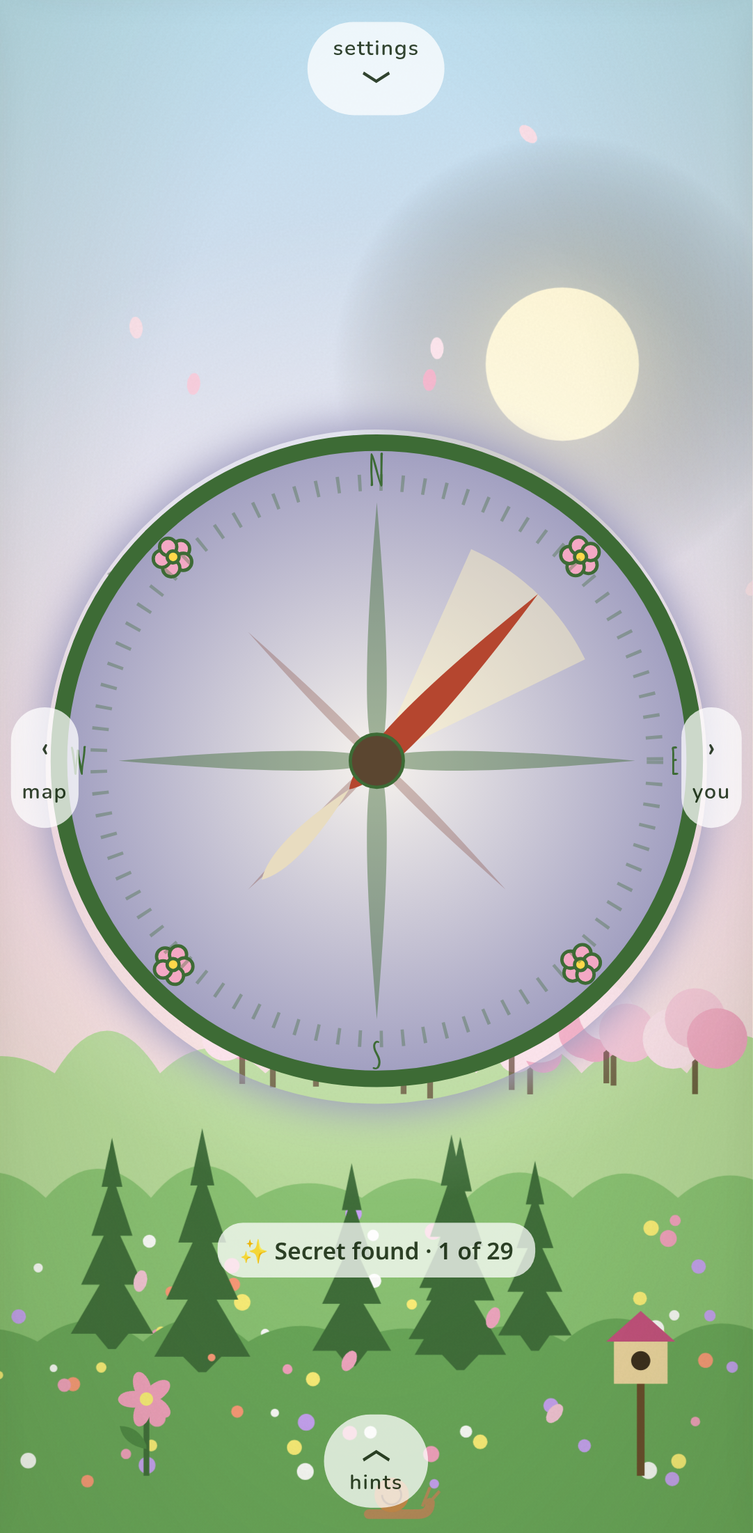
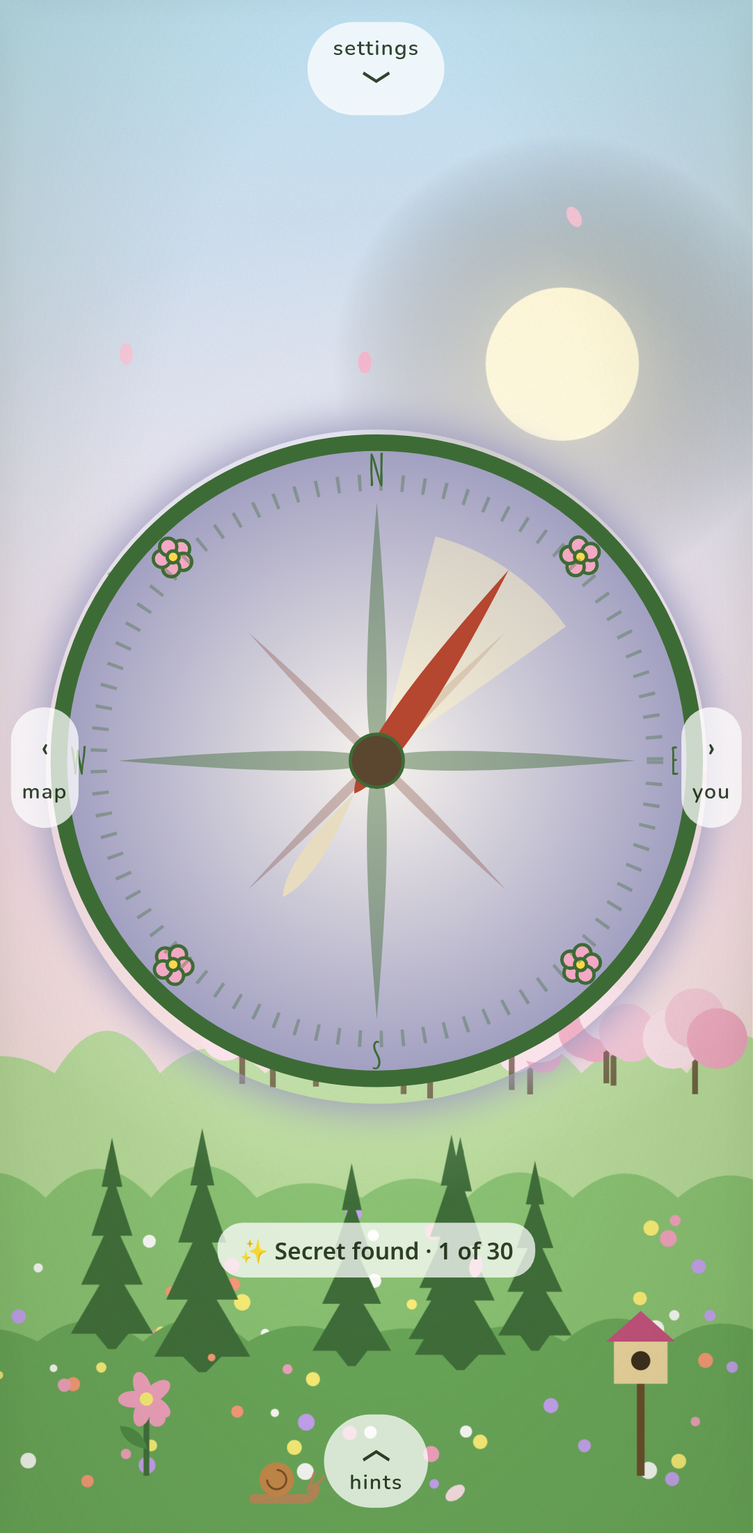
Haunted: eerie gravestone glow + move off hints; tappable trees with creepy eyes; min 52px hit targets; faded controls ignore taps; relocate snail/pine off handles

diff --git a/index.html b/index.html
@@ -1,5 +1,5 @@
-<!DOCTYPE html><html lang="en"><head><meta charset="utf-8"><meta http-equiv="Cache-Control" content="no-cache, no-store, must-revalidate"><meta http-equiv="Pragma" content="no-cache"><meta http-equiv="Expires" content="0"><meta name="ttu-build" content="202610231902"><meta name="viewport" content="width=device-width,initial-scale=1,viewport-fit=cover">
-<title>Trail Trade-Up · Solo Hunt</title><meta name="theme-color" content="#1f4d3a"><link rel="manifest" href="manifest.json?v=202610231902"><link rel="icon" href="icon-192.png?v=202610231902"><link rel="apple-touch-icon" href="icon-192.png?v=202610231902"><meta name="mobile-web-app-capable" content="yes"><meta name="apple-mobile-web-app-capable" content="yes"><meta name="apple-mobile-web-app-status-bar-style" content="black-translucent"><meta name="apple-mobile-web-app-title" content="Trail Hunt">
+<!DOCTYPE html><html lang="en"><head><meta charset="utf-8"><meta http-equiv="Cache-Control" content="no-cache, no-store, must-revalidate"><meta http-equiv="Pragma" content="no-cache"><meta http-equiv="Expires" content="0"><meta name="ttu-build" content="202610231919"><meta name="viewport" content="width=device-width,initial-scale=1,viewport-fit=cover">
+<title>Trail Trade-Up · Solo Hunt</title><meta name="theme-color" content="#1f4d3a"><link rel="manifest" href="manifest.json?v=202610231919"><link rel="icon" href="icon-192.png?v=202610231919"><link rel="apple-touch-icon" href="icon-192.png?v=202610231919"><meta name="mobile-web-app-capable" content="yes"><meta name="apple-mobile-web-app-capable" content="yes"><meta name="apple-mobile-web-app-status-bar-style" content="black-translucent"><meta name="apple-mobile-web-app-title" content="Trail Hunt">
 <link rel="stylesheet" href="https://unpkg.com/leaflet@1.9.4/dist/leaflet.css"><script src="https://unpkg.com/leaflet@1.9.4/dist/leaflet.js"></script>
 <link rel="preconnect" href="https://fonts.googleapis.com"><link rel="preconnect" href="https://fonts.gstatic.com" crossorigin><link rel="stylesheet" href="https://fonts.googleapis.com/css2?family=Amatic+SC:wght@700&family=Cormorant+Garamond:ital,wght@0,500;0,600;1,500&family=Creepster&family=Fraunces:ital,opsz,wght@0,9..144,400;0,9..144,600;1,9..144,400&family=IM+Fell+English:ital@0;1&family=IM+Fell+English+SC&family=Nunito:wght@400;600;700&family=Pacifico&family=Spectral:ital,wght@0,400;0,600;1,400&display=swap">
 <style>
@@ -1113,7 +1113,7 @@ window.TTU_FS={enter,exit,can,standalone};
 
 <style>
 .uiF{transition:opacity .4s ease}
-body.uiHide .uiF{opacity:0!important}
+body.uiHide .uiF{opacity:0!important;pointer-events:none}.tglow{opacity:.1;animation:tgb 6s ease-in-out infinite}body[data-tod=night] .tglow,body[data-tod=dusk] .tglow{animation-name:tgbN}@keyframes tgb{0%,100%{opacity:.06}50%{opacity:.16}}@keyframes tgbN{0%,100%{opacity:.3}50%{opacity:.65}}.twisp{opacity:0;animation:twp 9s ease-in-out infinite}@keyframes twp{0%,55%{opacity:0;transform:translate(0,0)}65%{opacity:.7}80%{opacity:.35;transform:translate(10px,-14px)}90%,100%{opacity:0;transform:translate(16px,-22px)}}
 body.uiHide #sxGo{opacity:.82;transition:opacity .4s ease}
 @media (prefers-reduced-motion:reduce){.uiF,body.uiHide #sxGo{transition:none}}
 </style>
@@ -1235,7 +1235,7 @@ window.TTU_CRIT={play,list:Object.keys(C)};
 const NS='http://www.w3.org/2000/svg',RM=matchMedia('(prefers-reduced-motion: reduce)'),b=document.body,KS='ttu_profile_secrets';
 const on=()=>{try{return localStorage.getItem('ttu_profile_crit')!=='off'}catch(e){return true}};
 const tod=()=>b.dataset.tod||'day',wx=()=>b.dataset.wx||'clear',night=()=>/night|dusk/.test(tod());
-let root,svg,props,fxg,cur='',cool={};
+let root,svg,props,fxg,cur='',cool={},tapP=null;
 function mk(){const land=document.querySelector('#tScene svg.land');if(!land)return false;if(!props){props=document.createElementNS(NS,'g');props.setAttribute('class','pr');fxg=document.createElementNS(NS,'g');fxg.setAttribute('class','fx')}
  if(props.parentNode!==land){land.appendChild(props);land.appendChild(fxg)}svg=land;return true}
 function add(h,par){const g=document.createElementNS(NS,'g');g.innerHTML=h;(par||fxg).appendChild(g);return g}
@@ -1244,10 +1244,10 @@ const done=(a,g)=>a.finished.then(()=>g.remove()).catch(()=>g.remove());
 const rare=()=>Math.random()<.15;
 // ---- static props per theme (new little scenery bits) ----
 const PROP={
-winter:'<g id="p_snowman" transform="translate(52 716)"><ellipse cy="52" rx="24" ry="4" fill="#7896bd" opacity=".45"/><circle cy="34" r="19" fill="#dfe8f4"/><path d="M-12 20 A19 19 0 0 0 -6 52 A20 20 0 0 1 -12 20Z" fill="#b9cbe6" opacity=".8"/><circle cy="5" r="13" fill="#e6edf7"/><path d="M-9 -4 A13 13 0 0 0 -6 16 A14 14 0 0 1 -9 -4Z" fill="#b9cbe6" opacity=".8"/><circle cx="-4" cy="2" r="1.4" fill="#1c2433"/><circle cx="4" cy="2" r="1.4" fill="#1c2433"/><path d="M0 6 l8 2 l-8 1Z" fill="#d9822b"/><path d="M-11 15 h22" stroke="#8a3a3a" stroke-width="3.5"/><g id="p_hat"><rect x="-10" y="-10" width="20" height="3.5" fill="#1c2433"/><rect x="-6" y="-23" width="12" height="14" fill="#1c2433"/></g></g><g id="p_pine" transform="translate(376 760)"><path d="M0 -70 L22 -30 L10 -30 L28 0 L-28 0 L-10 -30 L-22 -30Z" fill="#1c3352"/><path id="p_pcap" d="M0 -70 L12 -48 L0 -52 L-12 -48Z M-20 -31 L20 -31 L14 -26 L-14 -26Z" fill="#f4f8ff"/><rect x="-3" y="0" width="6" height="10" fill="#3a2a22"/></g>',
-haunted:'<g id="p_tomb" transform="translate(182 744)"><ellipse cy="24" rx="20" ry="3.5" fill="#07030e" opacity=".55"/><g transform="rotate(-7)"><path d="M-11 24 V-4 A11 11 0 0 1 11 -4 V24Z" fill="#140a22"/><path d="M3 -14.5 A11 11 0 0 1 11 -4 V10" stroke="#6a4a8a" stroke-width="1.2" fill="none" opacity=".8"/><path d="M0 -6 V8 M-5 -1 H5" stroke="#24123a" stroke-width="1.6"/></g><path d="M-18 24 l2 -6 l2 6 M14 24 l2 -7 l2 7 M-6 24 l1.5 -4 l1.5 4" stroke="#0c0618" stroke-width="1.4" fill="none"/></g><g id="p_bat" transform="translate(72 600)"><path d="M0 0 v6" stroke="#0c0618"/><ellipse cy="12" rx="4" ry="7" fill="#0b0514"/><circle cx="-1.5" cy="16" r=".9" fill="#ffd34d"/><circle cx="1.5" cy="16" r=".9" fill="#ffd34d"/></g>',
+winter:'<g id="p_snowman" transform="translate(52 716)"><ellipse cy="52" rx="24" ry="4" fill="#7896bd" opacity=".45"/><circle cy="34" r="19" fill="#dfe8f4"/><path d="M-12 20 A19 19 0 0 0 -6 52 A20 20 0 0 1 -12 20Z" fill="#b9cbe6" opacity=".8"/><circle cy="5" r="13" fill="#e6edf7"/><path d="M-9 -4 A13 13 0 0 0 -6 16 A14 14 0 0 1 -9 -4Z" fill="#b9cbe6" opacity=".8"/><circle cx="-4" cy="2" r="1.4" fill="#1c2433"/><circle cx="4" cy="2" r="1.4" fill="#1c2433"/><path d="M0 6 l8 2 l-8 1Z" fill="#d9822b"/><path d="M-11 15 h22" stroke="#8a3a3a" stroke-width="3.5"/><g id="p_hat"><rect x="-10" y="-10" width="20" height="3.5" fill="#1c2433"/><rect x="-6" y="-23" width="12" height="14" fill="#1c2433"/></g></g><g id="p_pine" transform="translate(352 760)"><path d="M0 -70 L22 -30 L10 -30 L28 0 L-28 0 L-10 -30 L-22 -30Z" fill="#1c3352"/><path id="p_pcap" d="M0 -70 L12 -48 L0 -52 L-12 -48Z M-20 -31 L20 -31 L14 -26 L-14 -26Z" fill="#f4f8ff"/><rect x="-3" y="0" width="6" height="10" fill="#3a2a22"/></g>',
+haunted:'<g id="p_tomb" transform="translate(150 724)"><defs><radialGradient id="tgG"><stop offset="0" stop-color="#9dffd0" stop-opacity=".9"/><stop offset=".5" stop-color="#5fe0c0" stop-opacity=".35"/><stop offset="1" stop-color="#3ac0b0" stop-opacity="0"/></radialGradient></defs><ellipse class="tglow" cy="20" rx="26" ry="9" fill="url(#tgG)"/><circle class="twisp" cx="-6" cy="12" r="1.6" fill="#c8ffe8"/><ellipse cy="24" rx="20" ry="3.5" fill="#07030e" opacity=".55"/><g transform="rotate(-7)"><path d="M-11 24 V-4 A11 11 0 0 1 11 -4 V24Z" fill="#140a22"/><path d="M3 -14.5 A11 11 0 0 1 11 -4 V10" stroke="#6a4a8a" stroke-width="1.2" fill="none" opacity=".8"/><path d="M0 -6 V8 M-5 -1 H5" stroke="#24123a" stroke-width="1.6"/></g><path d="M-18 24 l2 -6 l2 6 M14 24 l2 -7 l2 7 M-6 24 l1.5 -4 l1.5 4" stroke="#0c0618" stroke-width="1.4" fill="none"/></g><g id="p_bat" transform="translate(72 600)"><path d="M0 0 v6" stroke="#0c0618"/><ellipse cy="12" rx="4" ry="7" fill="#0b0514"/><circle cx="-1.5" cy="16" r=".9" fill="#ffd34d"/><circle cx="1.5" cy="16" r=".9" fill="#ffd34d"/></g>',
 golden:'<g id="p_oak" transform="translate(345 770)"><rect x="-5" y="-50" width="10" height="55" fill="#3a180a"/><circle cx="0" cy="-66" r="30" fill="#8a3018"/><circle cx="-18" cy="-52" r="18" fill="#a8461e"/><circle cx="18" cy="-54" r="18" fill="#6a2412"/></g><g id="p_crow" transform="translate(64 728)"><path d="M0 -20 V48" stroke="#5a3418" stroke-width="4"/><path d="M-22 -4 H22" stroke="#5a3418" stroke-width="3"/><path d="M-8 -6 L8 -6 L12 26 L-12 26Z" fill="#5a2612"/><g id="p_arm"><path d="M8 -4 L24 -4 L26 2" stroke="#a8743c" stroke-width="4" fill="none"/></g><circle cy="-16" r="9" fill="#a8743c"/><path d="M-12 -22 L12 -22 L6 -32 L-6 -32Z" fill="#3a180a"/><circle cx="-3" cy="-16" r="1.2" fill="#222"/><circle cx="3" cy="-16" r="1.2" fill="#222"/></g>',
-spring:'<g id="p_bud" transform="translate(80 770)"><path d="M0 0 V-34" stroke="#3f6e3a" stroke-width="3"/><path d="M0 -14 q-12 -2 -14 -12 q10 0 14 10" fill="#4f8a45"/><ellipse id="p_budh" cy="-40" rx="6" ry="9" fill="#c94f80"/></g><g id="p_bhouse" transform="translate(338 760)"><rect x="-2" y="-40" width="4" height="50" fill="#6a4a2a"/><path d="M-18 -60 L0 -76 L18 -60Z" fill="#c94f80"/><rect x="-14" y="-60" width="28" height="22" fill="#f3d9a4"/><circle cy="-50" r="5" fill="#3a2a1a"/></g><g id="p_snail" transform="translate(210 784)"><path d="M-14 6 H12 q6 0 6 -6" stroke="#b88a5a" stroke-width="5" fill="none" stroke-linecap="round"/><g id="p_shell"><circle cx="-2" cy="-4" r="9" fill="#c98a4a"/><path d="M-2 -4 m-5 0 a5 5 0 1 0 5 -5" stroke="#7a4a28" fill="none"/></g><g id="p_horn"><path d="M14 2 l4 -10 M16 2 l7 -8" stroke="#b88a5a" stroke-width="1.6"/></g></g>',
+spring:'<g id="p_bud" transform="translate(80 770)"><path d="M0 0 V-34" stroke="#3f6e3a" stroke-width="3"/><path d="M0 -14 q-12 -2 -14 -12 q10 0 14 10" fill="#4f8a45"/><ellipse id="p_budh" cy="-40" rx="6" ry="9" fill="#c94f80"/></g><g id="p_bhouse" transform="translate(338 760)"><rect x="-2" y="-40" width="4" height="50" fill="#6a4a2a"/><path d="M-18 -60 L0 -76 L18 -60Z" fill="#c94f80"/><rect x="-14" y="-60" width="28" height="22" fill="#f3d9a4"/><circle cy="-50" r="5" fill="#3a2a1a"/></g><g id="p_snail" transform="translate(150 776)"><path d="M-14 6 H12 q6 0 6 -6" stroke="#b88a5a" stroke-width="5" fill="none" stroke-linecap="round"/><g id="p_shell"><circle cx="-2" cy="-4" r="9" fill="#c98a4a"/><path d="M-2 -4 m-5 0 a5 5 0 1 0 5 -5" stroke="#7a4a28" fill="none"/></g><g id="p_horn"><path d="M14 2 l4 -10 M16 2 l7 -8" stroke="#b88a5a" stroke-width="1.6"/></g></g>',
 summer:'<g id="p_boat" transform="translate(330 680)"><path d="M-22 0 H22 L14 9 H-14Z" fill="#7a3a1a"/><path d="M0 0 V-40 L22 -4Z" fill="#fff"/><path d="M-2 -36 L-18 -4 H-2Z" fill="#e0532a"/></g><g id="p_light" transform="translate(372 772)"><path d="M-9 0 L-6 -60 H6 L9 0Z" fill="#efe6d6"/><path d="M1 0 L3 -60 H6 L9 0Z" fill="#d6c8b0" opacity=".7"/><path d="M-8 -16 H8 M-7 -36 H7" stroke="#e0532a" stroke-width="7"/><rect x="-7" y="-72" width="14" height="12" fill="#ffd34d"/><path d="M-9 -72 L0 -82 L9 -72Z" fill="#0d2c42"/></g><g id="p_ripple" transform="translate(70 700)"><ellipse rx="14" ry="3" fill="none" stroke="#e9f7ff" stroke-width="1.5" opacity=".6"/></g>',
 story:'<g id="p_ness" transform="translate(320 748)" fill="none" stroke="#3b2414" stroke-width="1.6" stroke-linecap="round"><path d="M-30 10 q8 -14 16 0 M-8 10 q8 -16 16 0"/><g id="p_nh"><path d="M14 10 q4 -30 16 -30 q8 0 8 6"/><circle cx="32" cy="-20" r="1" fill="#3b2414"/></g><path d="M-40 12 q10 -4 20 0 t20 0 t20 0 t20 0" opacity=".5"/></g><g id="p_drag" transform="translate(62 736)" fill="#e9d6a6" stroke="#3b2414" stroke-width="1.4"><path d="M-24 10 q10 -24 30 -16 l10 -8 l2 6 l-6 6 q4 10 -6 16 q-14 6 -30 -4Z"/><path d="M-4 -8 l-6 -14 l12 8" /><circle cx="10" cy="-12" r="1" fill="#3b2414"/><text x="-2" y="34" font-size="9" text-anchor="middle" stroke="none" fill="#3b2414" font-style="italic" font-family="IM Fell English,serif">here be dragons</text></g><circle id="p_rose" cx="70" cy="160" r="48" fill="transparent"/>'};
 // ---- actions; each: hit box [x,y,r] in viewBox coords + play() ----
@@ -1263,10 +1263,18 @@ curtains:{th:['winter','haunted'],hit:()=>b.dataset.th==='winter'?[271,660,16]:[
  if(cat)A(g.querySelector('.cat'),[{opacity:0},{opacity:0,offset:.82},{opacity:1,offset:.88},{opacity:1,offset:.97},{opacity:0}],{duration:6000});A(g.querySelector('.cl'),k(),{duration:6000});done(A(g.querySelector('.cr2'),k(),{duration:6000}),g)}},
 chimney:{th:['winter'],hit:()=>[313,600,16],play(){const g=add('<g></g>');for(let i=0;i<3;i++){const h=add('<g transform="translate(313 592)"><path d="M0 3 C-6 -2 -6 -7 -2 -7 C0 -7 0 -5 0 -4 C0 -5 0 -7 2 -7 C6 -7 6 -2 0 3Z" fill="'+(rare()?'#ff8fb3':'#e9eef6')+'"/></g>',g),p=h.firstChild.firstChild;A(p,[{transform:'translate(0,0) scale(.5)',opacity:0},{opacity:.95,offset:.15},{transform:'translate('+(8+i*6)+'px,-70px) scale(1.6)',opacity:0}],{duration:3200,delay:i*600,easing:'ease-out'})}setTimeout(()=>g.remove(),5000)}},
 snowman:{th:['winter'],hit:()=>[52,730,26],play(){const h=document.getElementById('p_hat');if(!h)return;const rr=rare();A(h,rr?[{transform:'translateY(0)'},{transform:'translateY(-46px) rotate(360deg)',offset:.4},{transform:'translateY(-46px) rotate(720deg)',offset:.6},{transform:'translateY(0) rotate(720deg)'}]:[{transform:'translateY(0)'},{transform:'translateY(-30px) rotate(-25deg)',offset:.35},{transform:'translateY(-30px) rotate(10deg)',offset:.55},{transform:'translateY(0) rotate(0)'}],{duration:1800,fill:'none',easing:'cubic-bezier(.3,1.3,.6,1)'})}},
-pine:{th:['winter'],hit:()=>[376,725,30],play(){const t=document.getElementById('p_pine'),c=document.getElementById('p_pcap');A(t,[{transform:'translate(376px,760px)'},{transform:'translate(373px,760px)'},{transform:'translate(379px,760px)'},{transform:'translate(374px,760px)'},{transform:'translate(376px,760px)'}].map(k=>({transform:k.transform.replace(/px/g,'px')})),{duration:600,fill:'none'});
+pine:{th:['winter'],hit:()=>[352,725,30],play(){const t=document.getElementById('p_pine'),c=document.getElementById('p_pcap');A(t,[{transform:'translate(352px,760px)'},{transform:'translate(373px,760px)'},{transform:'translate(379px,760px)'},{transform:'translate(374px,760px)'},{transform:'translate(352px,760px)'}].map(k=>({transform:k.transform.replace(/px/g,'px')})),{duration:600,fill:'none'});
  A(c,[{opacity:1},{opacity:0,offset:.15},{opacity:0,offset:.9},{opacity:1}],{duration:9000,fill:'none'});for(let i=0;i<7;i++){const g=add('<circle cx="'+(366+Math.random()*20)+'" cy="'+(695+Math.random()*30)+'" r="'+(1.5+Math.random()*2)+'" fill="#f4f8ff"/>');done(A(g.firstChild,[{transform:'translateY(0)',opacity:1},{transform:'translate('+(Math.random()*20-10)+'px,'+(50+Math.random()*20)+'px)',opacity:0}],{duration:1200+Math.random()*500,easing:'ease-in'}),g)}}},
-tomb:{th:['haunted'],hit:()=>[182,746,22],play(){const rr=rare(),g=add('<g transform="translate(182 738)"><g class="gh"><path d="M-9 8 V-6 A9 9 0 0 1 9 -6 V8 l-3 -3 l-3 3 l-3 -3 l-3 3 l-3 -3Z" fill="'+(rr?'#c8f5dc':'#e6dcf7')+'" opacity=".55"/><circle cx="-3" cy="-5" r="1.3" fill="#24123a"/><circle cx="3" cy="-5" r="1.3" fill="#24123a"/>'+(rr?'<text y="-18" text-anchor="middle" font-size="8" fill="#f3eefc">boo?</text>':'')+'</g></g>'),gh=g.querySelector('.gh');
+tomb:{th:['haunted'],hit:()=>[150,726,22],play(){const rr=rare(),g=add('<g transform="translate(150 718)"><g class="gh"><path d="M-9 8 V-6 A9 9 0 0 1 9 -6 V8 l-3 -3 l-3 3 l-3 -3 l-3 3 l-3 -3Z" fill="'+(rr?'#c8f5dc':'#e6dcf7')+'" opacity=".55"/><circle cx="-3" cy="-5" r="1.3" fill="#24123a"/><circle cx="3" cy="-5" r="1.3" fill="#24123a"/>'+(rr?'<text y="-18" text-anchor="middle" font-size="8" fill="#f3eefc">boo?</text>':'')+'</g></g>'),gh=g.querySelector('.gh');
  done(A(gh,[{transform:'translate(0,10px)',opacity:0},{transform:'translate(12px,-14px)',opacity:1,offset:.3},{transform:'translate(14px,-16px) rotate(8deg)',offset:.5},{transform:'translate(12px,-14px) rotate(-6deg)',offset:.7},{transform:'translate(0,10px)',opacity:0}],{duration:3600}),g)}},
+trees:{th:['haunted'],hit:()=>null,multi:[[52,632,46],[228,606,40]],play(i){const c=[[52,628],[228,604]][i||0],tp=tapP||{x:c[0],y:c[1]+30},rr=rare(),n=6+Math.floor(Math.random()*7),C=['#d8e05a','#e8c64a','#ff5a3c','#8cff6a'];let h='';const P=[];for(let k=0;k<n;k++){const x=c[0]+(Math.random()*2-1)*(i?46:40),y=c[1]+(Math.random()*2-1)*36,sz=.55+Math.random()*.7;P.push([x,y,sz])}if(rr)P.push([c[0],c[1]-6,2.6]);
+ const g=add('<g class="eyes"></g>'),gg=g.firstChild;P.forEach((q,k)=>{const col=k===n?'#ff3a2a':C[Math.floor(Math.random()*C.length)],dx=Math.max(-1,Math.min(1,(tp.x-q[0])/40))*1.1,dy=Math.max(-1,Math.min(1,(tp.y-q[1])/40))*.5;
+  const e=document.createElementNS(NS,'g');e.setAttribute('transform','translate('+q[0].toFixed(1)+' '+q[1].toFixed(1)+') scale('+q[2].toFixed(2)+')');e.innerHTML='<g class="o" opacity="0"><ellipse rx="9" ry="4" fill="'+col+'" opacity=".05"/><g class="l"><path d="M-6.5 0 Q-4 -2.6 -1.5 0 Q-4 1.6 -6.5 0Z M1.5 0 Q4 -2.6 6.5 0 Q4 1.6 1.5 0Z" fill="'+col+'" opacity=".9"/><g class="pu"><circle cx="-4" r=".8" fill="#0c0618"/><circle cx="4" r=".8" fill="#0c0618"/></g></g></g>';gg.appendChild(e);
+  const d=k===n?2300:Math.random()*1300,o=e.querySelector('.o'),l=e.querySelector('.l'),pu=e.querySelector('.pu'),life=k===n?1500:1700+Math.random()*900;
+  A(o,[{opacity:0},{opacity:1,offset:.12},{opacity:1,offset:.85},{opacity:0}],{duration:life,delay:d,fill:'forwards'});
+  const bl=Math.random()<.35;A(l,bl?[{transform:'scale(1,0)'},{transform:'scale(1,1)',offset:.1},{transform:'scale(1,1)',offset:.45},{transform:'scale(1,.1)',offset:.5},{transform:'scale(1,1)',offset:.56},{transform:'scale(1,1)',offset:.85},{transform:'scale(1,0)'}]:[{transform:'scale(1,0)'},{transform:'scale(1,1)',offset:.1},{transform:'scale(1,1)',offset:.85},{transform:'scale(1,0)'}],{duration:life,delay:d,fill:'forwards'});
+  A(pu,[{transform:'translate(0,0)'},{transform:'translate(0,0)',offset:.25},{transform:'translate('+dx.toFixed(2)+'px,'+dy.toFixed(2)+'px)',offset:.4},{transform:'translate('+dx.toFixed(2)+'px,'+dy.toFixed(2)+'px)'}],{duration:life,delay:d,fill:'forwards'})});
+ setTimeout(()=>g.remove(),4200)}},
 pumpkin:{th:['haunted'],hit:()=>{return null},multi:[[110,748,20],[288,756,16]],play(i){const p=[[110,748,.95],[288,756,.75]][i||0],rr=rare(),g=add('<g transform="translate('+p[0]+' '+p[1]+') scale('+p[2]+')"><path class="lid" d="M-11 -6 Q-6 -3 -1 -6" stroke="#1a0b26" stroke-width="5" fill="none" opacity="0"/>'+(rr?'<text y="-24" text-anchor="middle" font-size="10" fill="#ffd36b">hehe</text>':'')+'</g>');
  done(A(g.querySelector('.lid'),[{opacity:0},{opacity:1,offset:.2},{opacity:1,offset:.5},{opacity:0,offset:.6},{opacity:0}],{duration:1800,fill:'forwards'}),g)}},
 bat:{th:['haunted'],hit:()=>[72,612,14],play(){const bt=document.getElementById('p_bat');A(bt,[{transform:'translate(72px,600px)'},{transform:'translate(72px,600px) rotate(180deg)',offset:.2},{transform:'translate(72px,600px) rotate(170deg)',offset:.4},{transform:'translate(72px,600px) rotate(190deg)',offset:.6},{transform:'translate(72px,600px) rotate(180deg)',offset:.8},{transform:'translate(72px,600px)'}],{duration:2600,fill:'none'});
@@ -1280,7 +1288,7 @@ bloom:{th:['spring'],hit:()=>[80,740,22],play(){const rr=rare(),g=add('<g transf
  A(f,[{transform:'scale(0) rotate(-90deg)'},{transform:'scale(1.1) rotate(0)',offset:.25},{transform:'scale(1)',offset:.35},{transform:'scale(1) rotate(8deg)',offset:.85},{transform:'scale(0)'}],{duration:6000}).finished.then(()=>{g.remove();document.getElementById('p_budh').style.opacity=1}).catch(()=>{})}},
 birdhouse:{th:['spring'],hit:()=>[338,708,24],play(){const rr=rare(),g=add('<g transform="translate(338 710)"><g class="bd"><circle r="5" fill="'+(rr?'#3a7bd5':'#c4401e')+'"/><path d="M4 0 l4 1 l-4 1Z" fill="#e0a030"/><circle cx="2" cy="-1" r=".8" fill="#000"/></g><text class="tw" x="8" y="-10" font-size="9" fill="#24361f" opacity="0">♪</text></g>');
  A(g.querySelector('.tw'),[{opacity:0},{opacity:0,offset:.3},{opacity:1,transform:'translateY(-6px)',offset:.5},{opacity:0,transform:'translateY(-12px)',offset:.8},{opacity:0}],{duration:3000});done(A(g.querySelector('.bd'),[{transform:'scale(0)'},{transform:'scale(1) translateX(4px)',offset:.2},{transform:'scale(1) translateX(4px) rotate(-10deg)',offset:.4},{transform:'scale(1) translateX(4px) rotate(10deg)',offset:.6},{transform:'scale(1) translateX(4px)',offset:.8},{transform:'scale(0)'}],{duration:3000}),g)}},
-snail:{th:['spring'],hit:()=>[210,782,18],play(){const h=document.getElementById('p_horn');A(h,[{opacity:1,transform:'translateX(0)'},{opacity:0,transform:'translateX(-14px)',offset:.15},{opacity:0,transform:'translateX(-14px)',offset:.8},{opacity:1,transform:'translateX(0)'}],{duration:3500,fill:'none'});A(document.getElementById('p_shell'),[{transform:'rotate(0)'},{transform:'rotate(-8deg)',offset:.1},{transform:'rotate(6deg)',offset:.2},{transform:'rotate(0)',offset:.3},{transform:'rotate(0)'}],{duration:3500,fill:'none'})}},
+snail:{th:['spring'],hit:()=>[150,774,18],play(){const h=document.getElementById('p_horn');A(h,[{opacity:1,transform:'translateX(0)'},{opacity:0,transform:'translateX(-14px)',offset:.15},{opacity:0,transform:'translateX(-14px)',offset:.8},{opacity:1,transform:'translateX(0)'}],{duration:3500,fill:'none'});A(document.getElementById('p_shell'),[{transform:'rotate(0)'},{transform:'rotate(-8deg)',offset:.1},{transform:'rotate(6deg)',offset:.2},{transform:'rotate(0)',offset:.3},{transform:'rotate(0)'}],{duration:3500,fill:'none'})}},
 fish:{th:['summer'],hit:()=>[70,700,24],play(){const rr=rare(),g=add('<g><g class="fs"><path d="M-8 0 Q0 -6 8 0 Q0 6 -8 0Z M-8 0 l-6 -5 v10Z" fill="'+(rr?'#ffb000':'#5aa0c8')+'"/><circle cx="4" cy="-1" r=".9" fill="#fff"/></g><ellipse class="rp" cx="70" cy="700" rx="18" ry="4" fill="none" stroke="#fff" stroke-width="1.5" opacity="0"/></g>'),f=g.querySelector('.fs');
  A(g.querySelector('.rp'),[{opacity:0,transform:'scale(.3)'},{opacity:.9,transform:'scale(.5)',offset:.1},{opacity:0,transform:'scale(1.4)',offset:.4},{opacity:.9,transform:'scale(.5)',offset:.75},{opacity:0,transform:'scale(1.5)'}],{duration:2400});
  done(A(f,[{transform:'translate(60px,700px) rotate(-60deg)',opacity:1},{transform:'translate(70px,664px) rotate(0deg)',offset:.4},{transform:'translate(82px,700px) rotate(70deg)',offset:.75,opacity:1},{transform:'translate(82px,704px) rotate(70deg)',opacity:0}],{duration:2400,easing:'ease-out'}),g)}},
@@ -1293,7 +1301,7 @@ dragon:{th:['story'],hit:()=>[62,730,28],play(){const rr=rare(),g=add('<g transf
  done(A(g.firstChild.firstChild,[{transform:'translate(0,0) scale(.2)',opacity:0},{opacity:1,transform:'translate(6px,-4px) scale(1)',offset:.3},{transform:'translate(18px,-12px) scale(1.3)',opacity:0}],{duration:1800,easing:'ease-out'}),g)}},
 rose:{th:['story'],hit:()=>[70,160,48],play(){const r=document.querySelector('#tScene svg.land g[transform="translate(70 160)"]');if(!r)return;r.style.transformBox='view-box';r.style.transformOrigin='70px 160px';
  const a=r.animate(RM.matches?[{transform:'translate(70px,160px) rotate(90deg)'},{transform:'translate(70px,160px) rotate(90deg)'}]:[{transform:'translate(70px,160px) rotate(0)'},{transform:'translate(70px,160px) rotate('+(rare()?1080:720)+'deg)'}],{duration:2400,easing:'cubic-bezier(.2,.8,.3,1)'});a.finished.then(()=>{r.style.transform=''})}}};
-const LIST={winter:['moon','sun','curtains','chimney','snowman','pine'],haunted:['moon','sun','curtains','tomb','pumpkin','bat'],golden:['sun','moon','acorn','scarecrow'],spring:['sun','moon','bloom','birdhouse','snail'],summer:['sun','moon','fish','boat','lighthouse'],story:['rose','ness','dragon']};
+const LIST={winter:['moon','sun','curtains','chimney','snowman','pine'],haunted:['moon','sun','curtains','tomb','pumpkin','bat','trees'],golden:['sun','moon','acorn','scarecrow'],spring:['sun','moon','bloom','birdhouse','snail'],summer:['sun','moon','fish','boat','lighthouse'],story:['rose','ness','dragon']};
 function build(){if(!mk())return;const th=b.dataset.th||'';if(th===cur&&props.childNodes.length)return;cur=th;props.innerHTML=PROP[th]||'';fxg.innerHTML=''}
 new MutationObserver(build).observe(b,{attributes:true,attributeFilter:['data-th']});setTimeout(()=>{const sc=document.getElementById('tScene');if(sc)new MutationObserver(()=>{cur='';build()}).observe(sc,{childList:true})},0);
 // secrets
@@ -1304,8 +1312,8 @@ function lbl(){const c=document.getElementById('critTog');if(!c)return;let s;try
 function play(n,i){const a=ACT[n];if(!a)return false;const now=Date.now(),k=n+(i||'');if((cool[k]||0)>now)return false;cool[k]=now+4000;try{a.play(i);document.dispatchEvent(new CustomEvent('ttu:quirk',{detail:n}))}catch(e){}try{navigator.vibrate&&navigator.vibrate(8)}catch(e){}found(n);return true}
 // hit testing: real taps only (no swipes), never on UI or the compass
 const UI='button,a,input,select,textarea,label,.hh,.pnl.on,#cmpWrap,#fct,.grab,[role=button],#sx .card,#hx [class*=o_]';
-function hits(cx,cy){if(!svg)return null;const m=svg.getScreenCTM();if(!m)return null;const p=new DOMPoint(cx,cy).matrixTransform(m.inverse()),th=b.dataset.th,L=LIST[th]||[];
- for(const n of L){const a=ACT[n];if(a.multi){for(let i=0;i<a.multi.length;i++){const h=a.multi[i];if(Math.hypot(p.x-h[0],p.y-h[1])<h[2]+6)return[n,i]}continue}const h=a.hit();if(h&&Math.hypot(p.x-h[0],p.y-h[1])<h[2]+6)return[n]}return null}
+function hits(cx,cy){if(!svg)return null;const m=svg.getScreenCTM();if(!m)return null;const p=new DOMPoint(cx,cy).matrixTransform(m.inverse()),th=b.dataset.th,L=LIST[th]||[],mn=26/(Math.hypot(m.a,m.b)||1);tapP=p;
+ for(const n of L){const a=ACT[n];if(a.multi){for(let i=0;i<a.multi.length;i++){const h=a.multi[i];if(Math.hypot(p.x-h[0],p.y-h[1])<Math.max(h[2]+6,mn))return[n,i]}continue}const h=a.hit();if(h&&Math.hypot(p.x-h[0],p.y-h[1])<Math.max(h[2]+6,mn))return[n]}return null}
 function overCompass(x,y){const c=document.querySelector('#cmpWrap canvas,#cmpWrap svg,#cmp');if(!c||!c.offsetParent)return false;const r=c.getBoundingClientRect();return Math.hypot(x-(r.left+r.width/2),y-(r.top+r.height/2))<Math.min(r.width,r.height)/2}
 let st=null;
 document.addEventListener('pointerdown',e=>{st={x:e.clientX,y:e.clientY,t:Date.now(),ui:!!(e.target.closest&&e.target.closest(UI))}},{capture:true,passive:true});
@@ -1313,7 +1321,7 @@ document.addEventListener('pointerup',e=>{const s=st;st=null;if(!s||s.ui||!on())
  const h=hits(e.clientX,e.clientY);if(h)play(h[0],h[1])},{capture:true,passive:true});
 build();setTimeout(lbl,500);
 const dbg=new URLSearchParams(location.search).get('tap');if(dbg)setTimeout(()=>{build();play(dbg)},1200);
-window.TTU_TAP={play,hits,list:LIST};
+window.TTU_TAP={play,hits,list:LIST,zones(){if(!mk())return[];const m=svg.getScreenCTM(),sc=Math.hypot(m.a,m.b),o=[];for(const n of LIST[b.dataset.th]||[]){const a=ACT[n],L=a.multi||[a.hit()];L.forEach(h=>{if(!h)return;const q=new DOMPoint(h[0],h[1]).matrixTransform(m);o.push([n,q.x,q.y,Math.max((h[2]+6)*sc,26)])})}return o}};
 })();
 </script>
 <script>
@@ -1358,6 +1366,7 @@ chitter(t){for(let i=0;i<9;i++)tone(t+i*.045,R(1700,2300),.035,{type:'triangle',
 swish(t){noise(t,.5,{f:600,fg:[[2400,.45]],q:1.2,g:.22,a:.1})},
 boop(t){tone(t,520,.14,{glide:[[880,.12]],g:.1,type:'triangle'});tone(t+.18,880,.12,{glide:[[660,.1]],g:.08,type:'triangle'})},
 squeak(t){for(let i=0;i<3;i++)tone(t+i*.09,R(5500,6500),.04,{g:.03})},
+eyes(t){noise(t,3.2,{ft:'bandpass',f:700,fg:[[1400,1.4],[500,3]],g:.05,a:1.2});tone(t,92,3.2,{glide:[[78,3]],a:1.4,g:.05,vib:[2,5]});tone(t+.6,131,2.4,{a:1,g:.025,type:'triangle'})},
 ghost(t){tone(t,280,1.8,{glide:[[340,.8],[240,1.7]],a:.4,g:.08,vib:[4,10]})},
 pop(t){tone(t,300,.1,{glide:[[900,.08]],g:.1})},
 twinkle(t){[1568,2093,2637].forEach((f,i)=>tone(t+i*.08,f,.5,{g:.04,a:.005}))},
@@ -1371,7 +1380,7 @@ spring:[['chirp','dawn|day','dry'],['woodpecker','day'],['frogs','dusk|night'],[
 summer:[['loon','dawn|dusk|night'],['lap','any'],['splash','any'],['crickets','dusk|night','dry'],['frogs','dusk|night'],['chirp','dawn|day','dry'],['hoot','night']],
 story:[['quill','any'],['page','any'],['bell','any'],['lap','any'],['creak','any'],['chimes','any']]};
 const Q={squirrel:'chitter',chipmunk:'chitter',snowclump:'plop',bat:'squeak',lantern:'ghost',owl:'hoot',leaf:'rustle',deer:'rustle',butterfly:'twinkle',bee:'twinkle',bird:'chirp',loon:'loon',dragonfly:'twinkle',splash:'splash',firefly:'twinkle',ship:'bell',rose:'quill',
- moon:'boop',sun:'cheer',curtains:'swish',chimney:'pop',snowman:'pop',pine:'plop',tomb:'ghost',pumpkin:'pop',acorn:'bonk',scarecrow:'rustle',bloom:'twinkle',birdhouse:'chirp',snail:'pop',fish:'splash',boat:'lap',lighthouse:'bell',ness:'splash',dragon:'page'};
+ moon:'boop',sun:'cheer',curtains:'swish',chimney:'pop',snowman:'pop',pine:'plop',tomb:'ghost',trees:'eyes',pumpkin:'pop',acorn:'bonk',scarecrow:'rustle',bloom:'twinkle',birdhouse:'chirp',snail:'pop',fish:'splash',boat:'lap',lighthouse:'bell',ness:'splash',dragon:'page'};
 function play(n){if(!enabled()||!X||X.state!=='running'||document.hidden||!S[n])return false;try{M.gain.setValueAtTime(vol()*.8,X.currentTime);S[n](T())}catch(e){return false}return true}
 document.addEventListener('ttu:quirk',e=>{const n=Q[e.detail];if(n)setTimeout(()=>play(n),120)});
 function ok(c){const t=b.dataset.tod||'day',w=b.dataset.wx||'clear';if(c[1]!=='any'&&!new RegExp('^('+c[1]+')$').test(t))return false;if(c[2]==='dry'&&/rain|storm|snow/.test(w))return false;return true}
